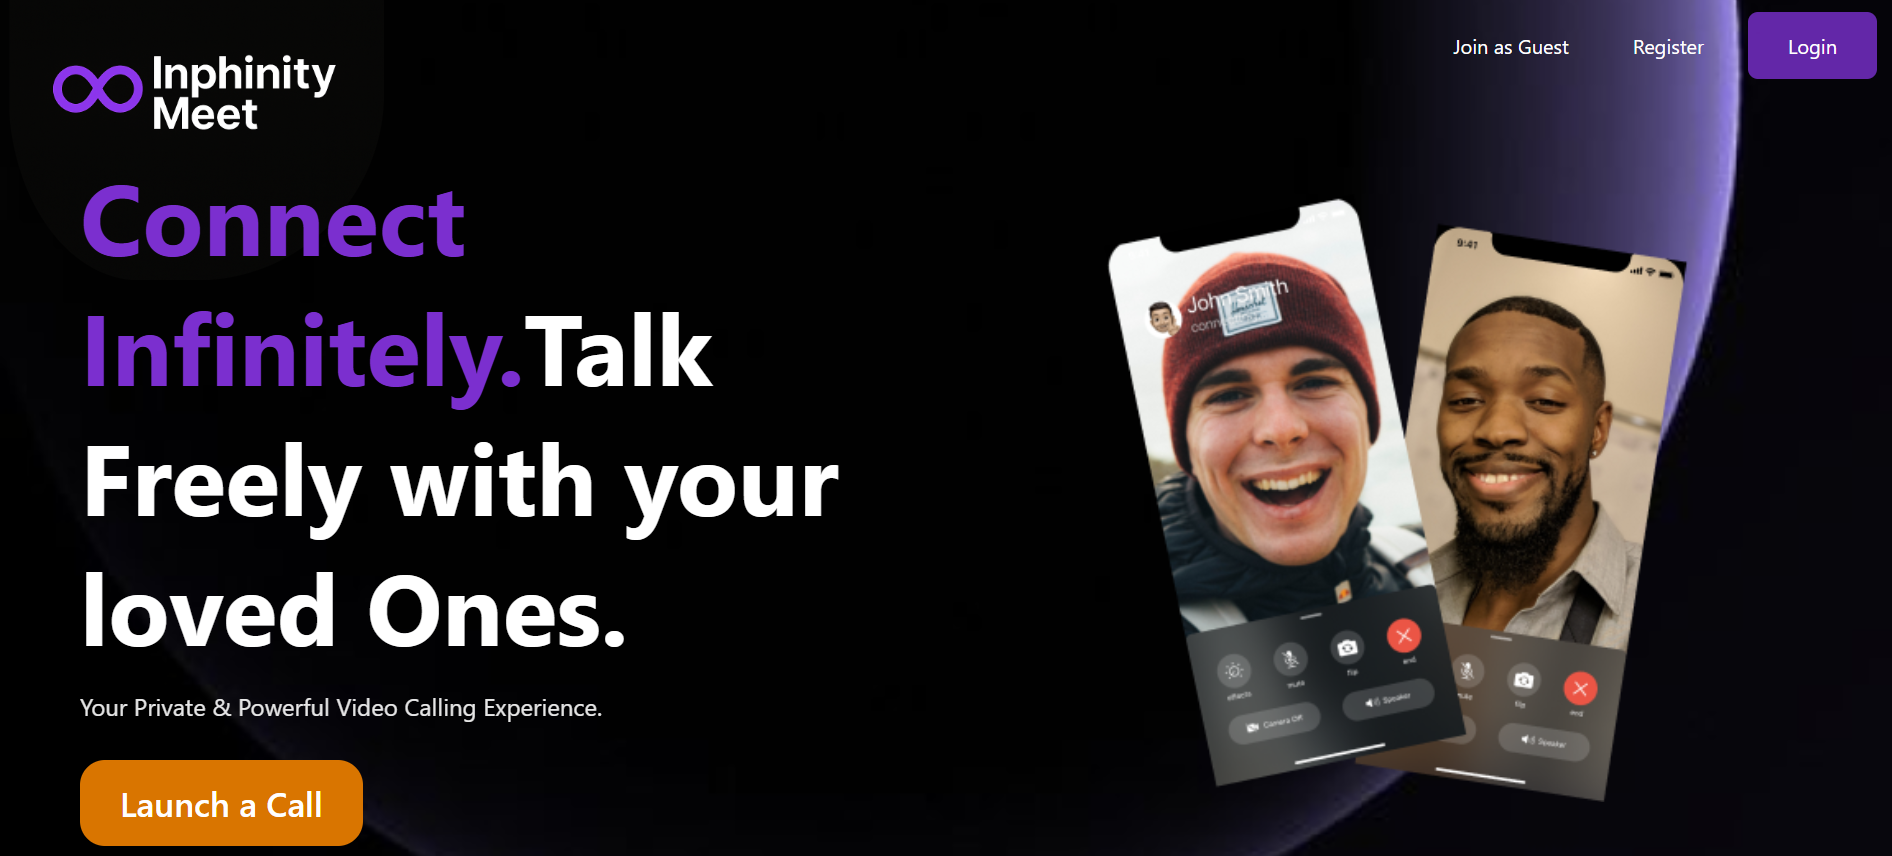
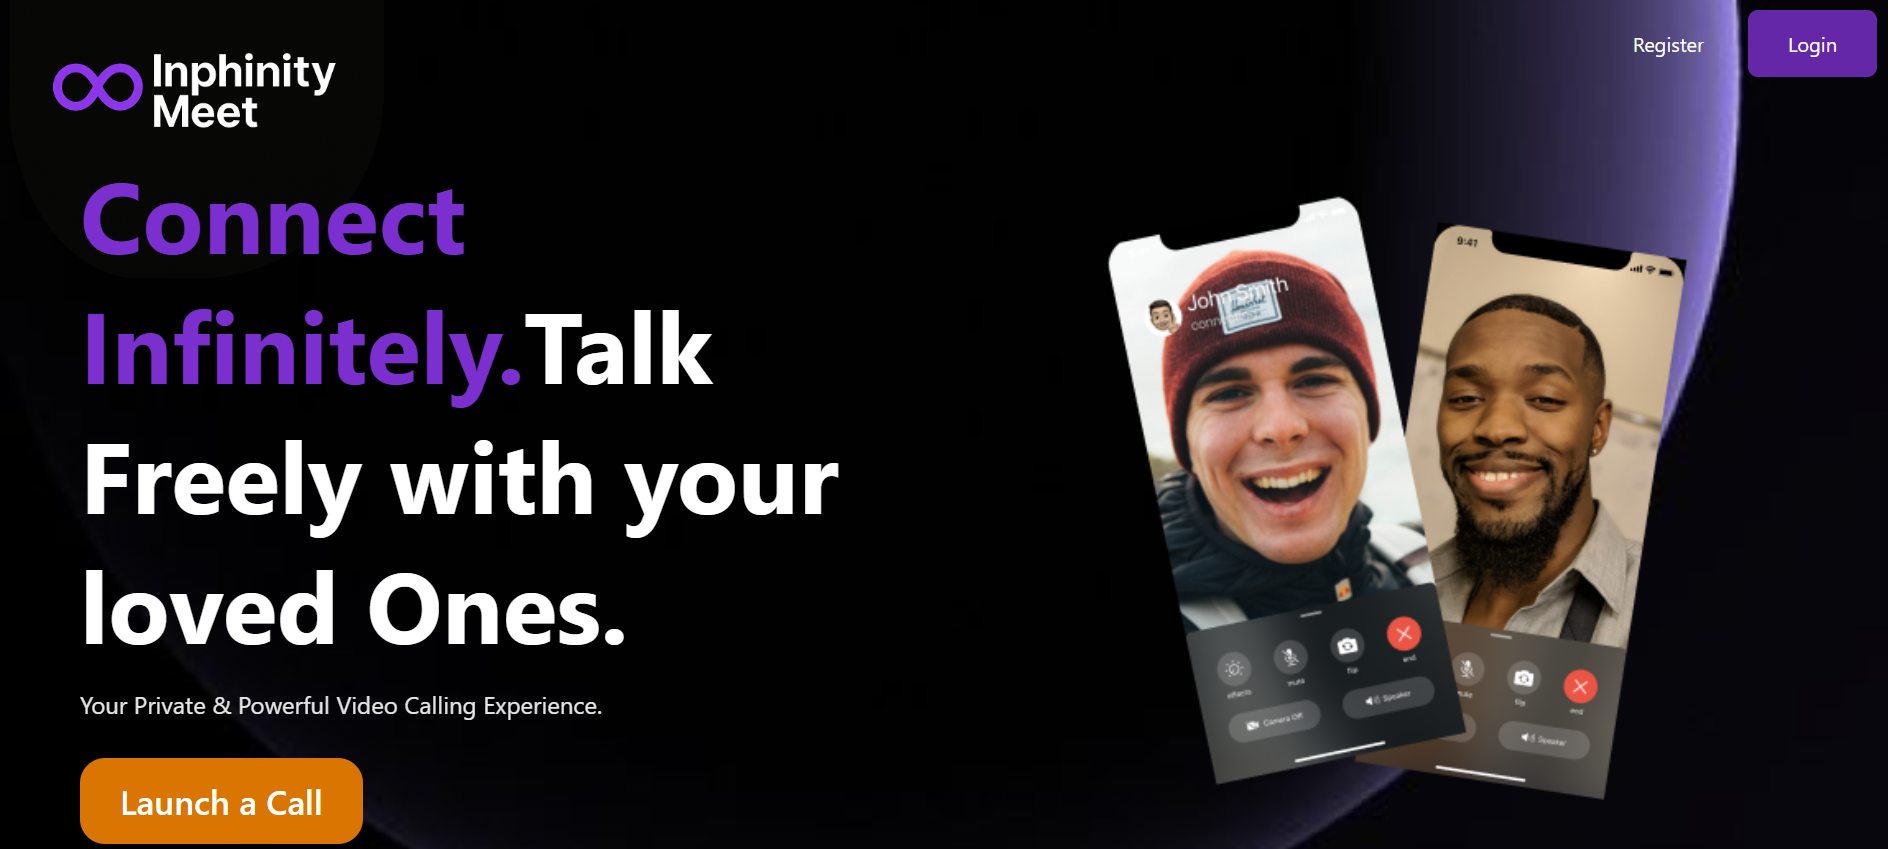
Remove Join as Guest button from landing page

diff --git a/frontend/src/pages/landing.jsx b/frontend/src/pages/landing.jsx
@@ -13,9 +13,6 @@ export default function LandingPage() {
                 <img src="/logo.png" alt="Inphinity Meet" className="logo" />
                 <div className='navlist'>
                     <p onClick={() => {
-                        router("/aljk23")
-                    }}>Join as Guest</p>
-                    <p onClick={() => {
                         router("/auth")
 
                     }}>Register</p>
